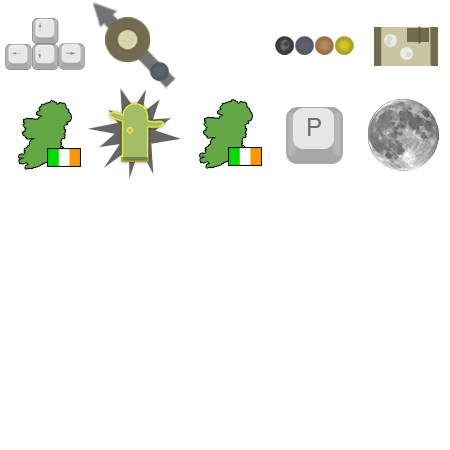
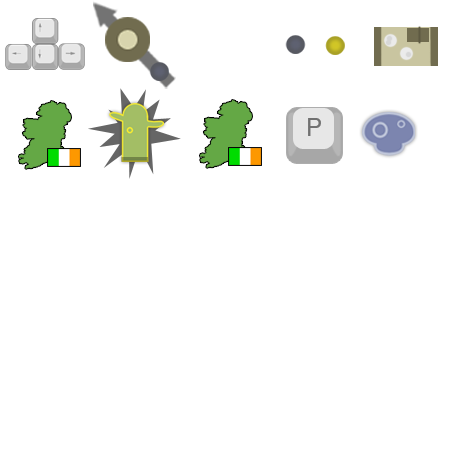
now only 2 types of mushrooms, updated instructions to reflect this, updated meter to reward player differently.

Changed region(s): [[0.7778, 0.2178, 0.9956, 0.4044], [0.5911, 0.0622, 0.8089, 0.1244]]

diff --git a/src/com/shade/states/SelectState.java b/src/com/shade/states/SelectState.java
@@ -107,7 +107,7 @@ public class SelectState extends BasicGameState {
 
                     public void onClick(StateBasedGame game, Button clicked) {
                         level.newGame((Integer) ((SlickButton)clicked).getUserData());
-                        game.enterState(InGameState.ID);
+                        game.enterState(InGameState.ID, new FadeOutTransition(), null);
                     }
                     
                 });
@@ -135,8 +135,8 @@ public class SelectState extends BasicGameState {
         play.addListener(new ClickListener() {
 
             public void onClick(StateBasedGame game, Button clicked) {
-                ((InGameState) game.getState(InGameState.ID)).newGame();
-                game.enterState(InGameState.ID, new FadeOutTransition(), null);
+                level.newGame();
+                game.enterState(InstructionState.ID);
             }
 
         });

diff --git a/src/com/shade/entities/mushroom/MushroomFactory.java b/src/com/shade/entities/mushroom/MushroomFactory.java
@@ -11,7 +11,7 @@ public class MushroomFactory {
     /**
      * Corresponds to the Mushroom.Type enum.
      */
-    private static final double[] distribution = { .12, .65, .13, .05 };
+    private static final double[] distribution = { 0, .97, 0, .03 };
     private static final double PROPENSITY = .002;
 
     /* Minimum number of mushrooms alive at any one time. */

diff --git a/src/com/shade/entities/mushroom/Mushroom.java b/src/com/shade/entities/mushroom/Mushroom.java
@@ -174,9 +174,13 @@ public class Mushroom extends Linkable {
             return scale * 2;
         }
         if (type == Types.RARE) {
-            return scale * 10;
+            return scale * 2;
         }
         return 0;
+    }
+    
+    public boolean isGolden() {
+        return type == Types.RARE;
     }
 
     public int getRole() {

diff --git a/src/com/shade/controls/MeterControl.java b/src/com/shade/controls/MeterControl.java
@@ -131,6 +131,9 @@ public class MeterControl implements ControlSlice, MushroomCounter {
 
     private void valueMushroom(Mushroom shroomie) {
         totalAmountToAdd += shroomie.getValue() * 4;
+        if (shroomie.isGolden()) {
+            scorecard.add(shroomie.getValue() * 40);
+        }
     }
 
     private void decrement(int delta) {
